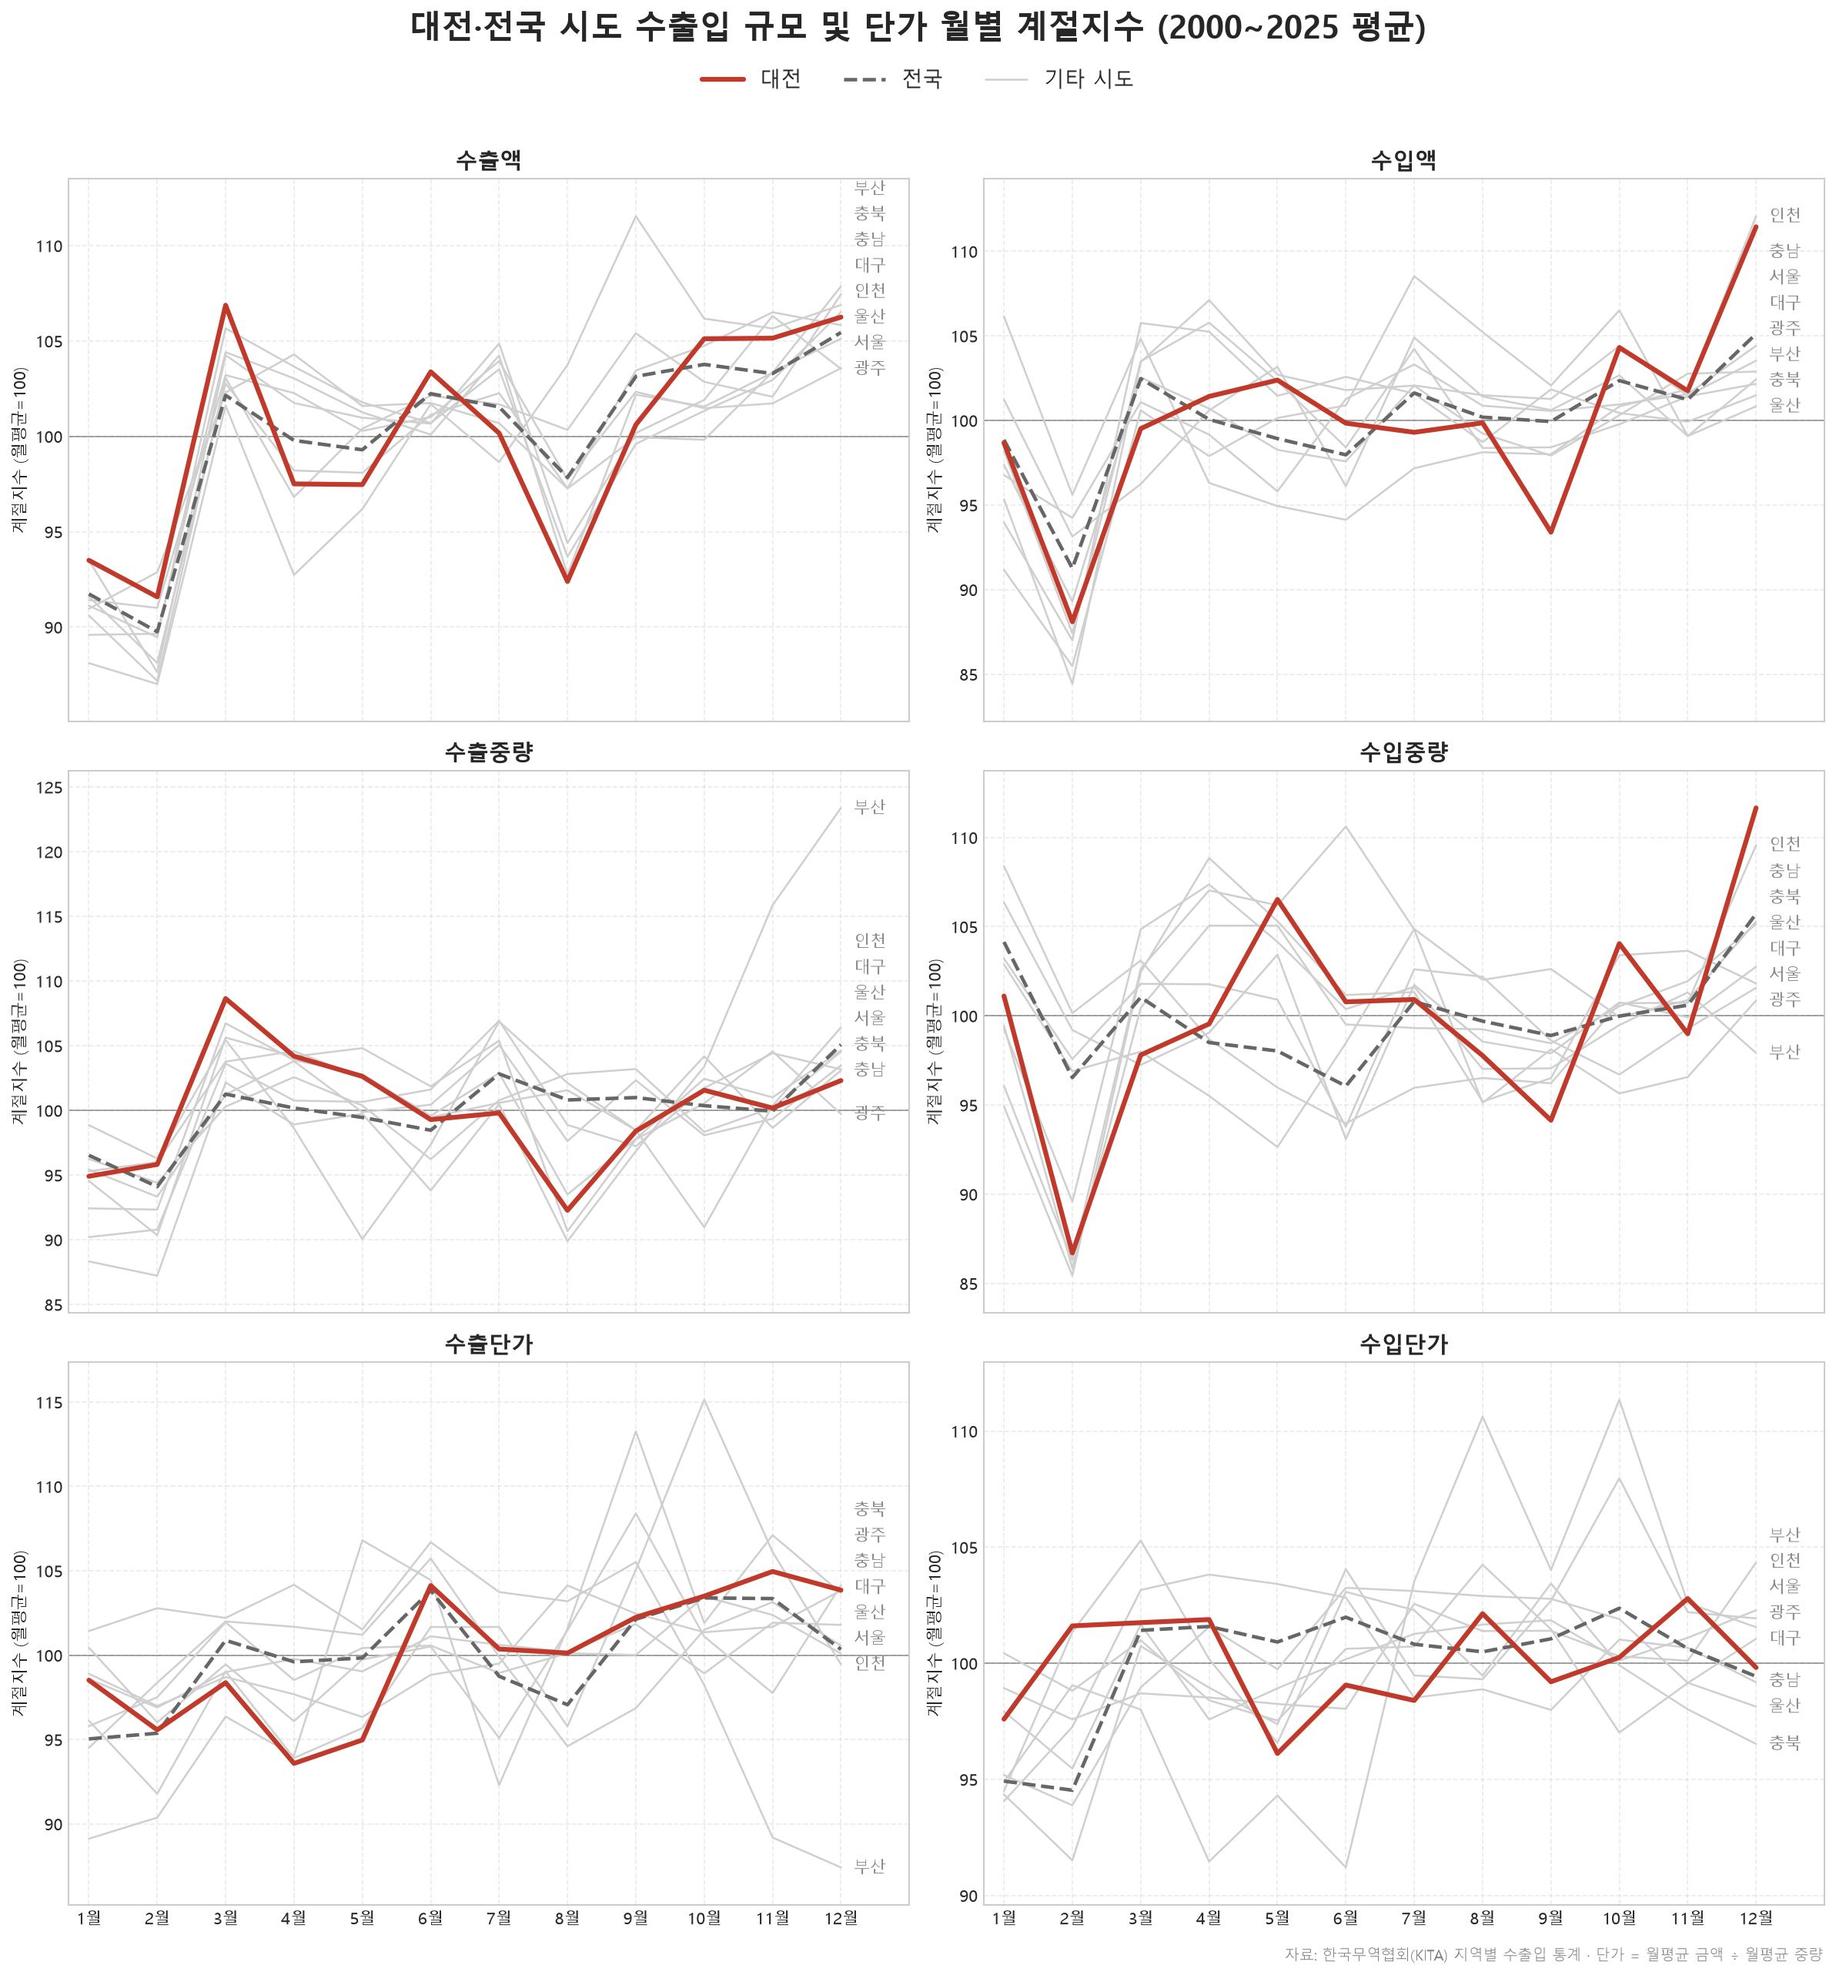
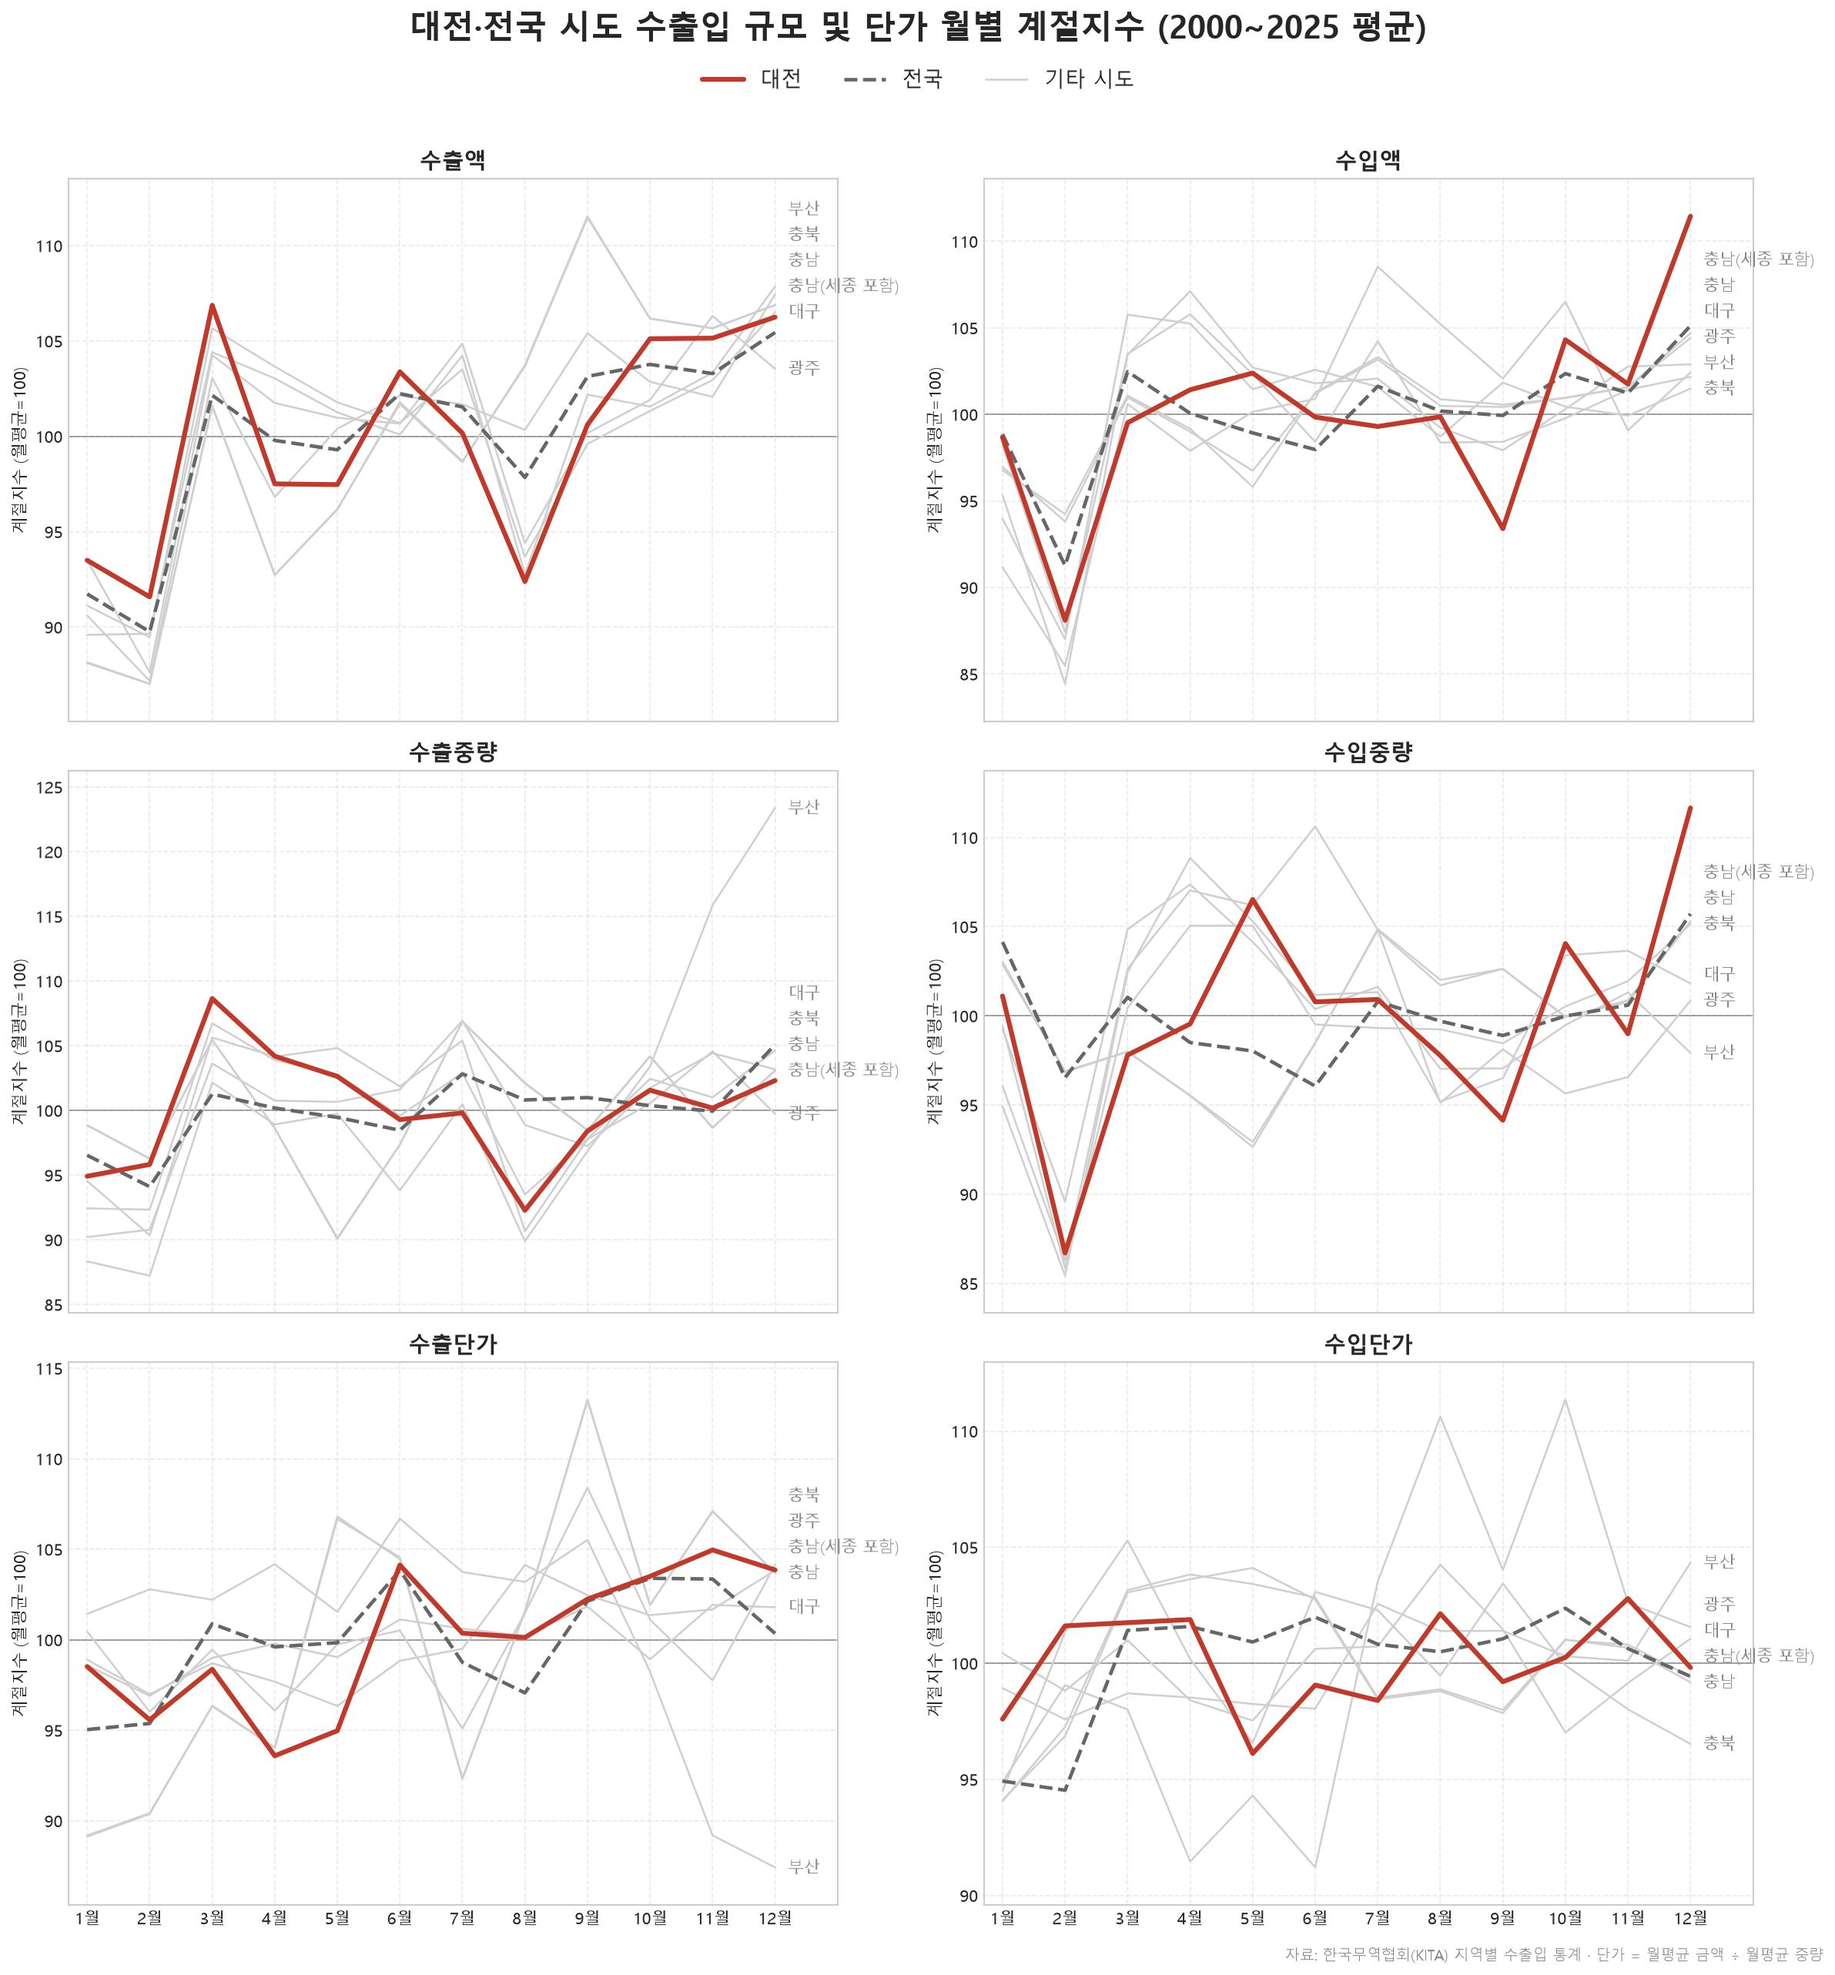
chore: replot monthly data

diff --git a/src/vs/m_total_trade_seaonal_index.py b/src/vs/m_total_trade_seaonal_index.py
@@ -10,8 +10,13 @@ import matplotlib.pyplot as plt
 import pandas as pd
 from matplotlib import font_manager
 
-DATA_PATH = Path("/mnt/user-data/uploads/kita_regional_monthly.csv")
-OUTPUT_PATH = Path("/mnt/user-data/outputs/daejeon_total_trade_seasonal_index.png")
+PROJECT_ROOT = Path(__file__).resolve().parents[2]
+DATA_DIR = PROJECT_ROOT / "data"
+PROCESSED_DIR = DATA_DIR / "processed"
+OUTPUT_DIR = PROJECT_ROOT / "output"
+
+DATA_PATH = PROCESSED_DIR / "kita_regional_monthly_added.csv"
+OUTPUT_PATH = OUTPUT_DIR / "m_daejeon_total_trade_seasonal_index.png"
 
 FOCUS_REGION = "대전"
 BENCHMARK_REGION = "전국"

diff --git a/src/vs/m_Daejeon_vs_others_monthly_avg.py b/src/vs/m_Daejeon_vs_others_monthly_avg.py
@@ -15,7 +15,7 @@ DATA_DIR = BASE_DIR / "data/processed"
 SAVE_DIR = BASE_DIR / "output"
 SAVE_DIR.mkdir(parents=True, exist_ok=True)
 
-DATA_PATH = DATA_DIR / "kita_regional_monthly.csv"
+DATA_PATH = DATA_DIR / "kita_regional_monthly_added.csv"
 SAVE_PATH = SAVE_DIR / "m_Daejeon_region_seasonal_index.jpg"
 
 FOCUS_REGION = "대전"

diff --git a/src/vs/m_kita_monthly_average_value.py b/src/vs/m_kita_monthly_average_value.py
@@ -16,7 +16,7 @@ DATA_DIR = BASE_DIR / "data/processed"
 SAVE_DIR = BASE_DIR / "output"
 SAVE_DIR.mkdir(parents=True, exist_ok=True)
 
-DATA_PATH = DATA_DIR / "kita_regional_monthly.csv"
+DATA_PATH = DATA_DIR / "kita_regional_monthly_added.csv"
 SAVE_PATH = SAVE_DIR / "m_Daejeon_monthly_avg_value.jpg"
 
 REGION = "대전"
